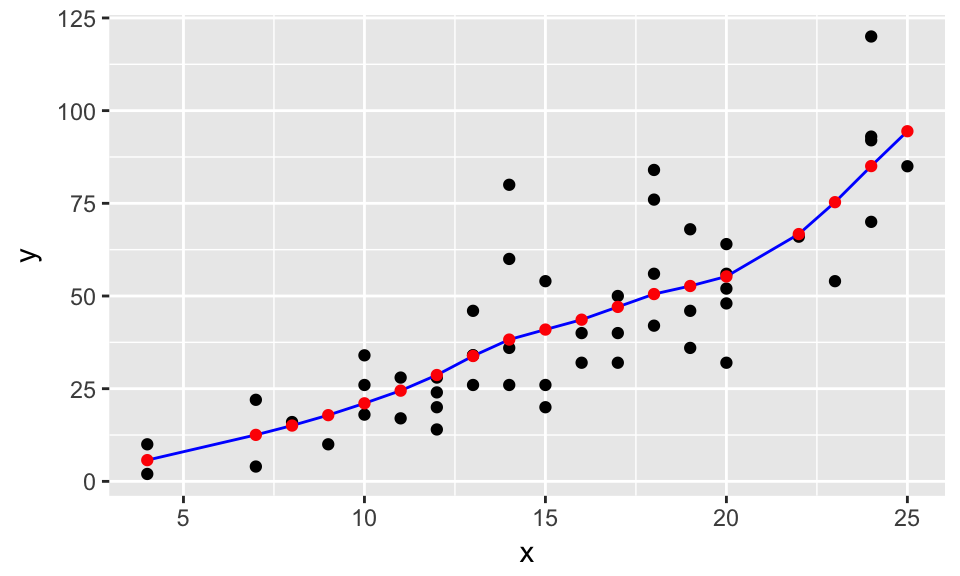
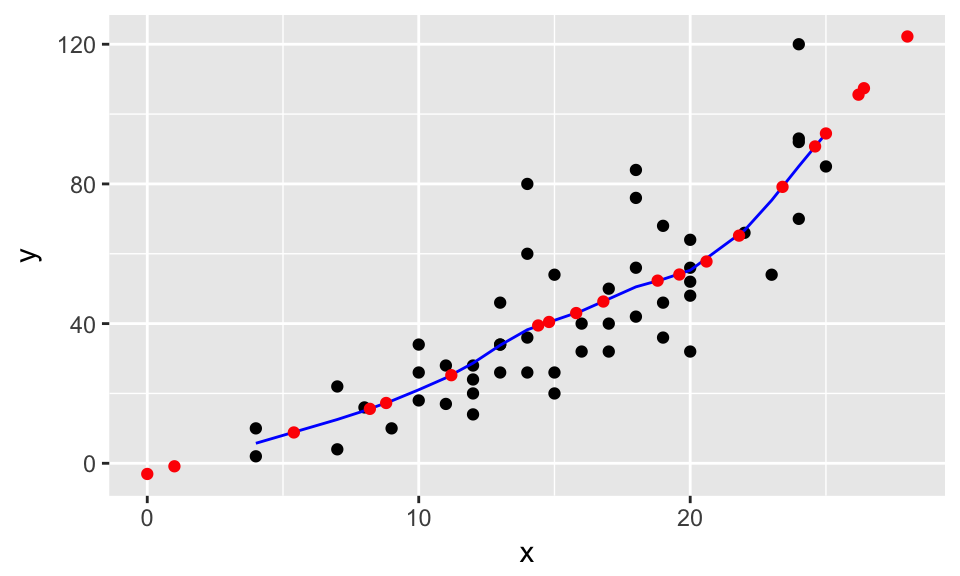
Fixed typo

diff --git a/docs/index.html b/docs/index.html
@@ -605,7 +605,7 @@ plot</code></pre>
 <p><img src="index_files/figure-html/unnamed-chunk-5-1.png" width="480" /></p>
 <pre class="r"><code>new_speeds &lt;- c(24.6, 26.4, 23.4, 16.8, 15.8, 5.4, 14.8, 8.2, 1, 18.8, 25, 28, 19.6, 11.2, 21.8, 26.2, 20.6, 0, 14.4, 8.8)
 # What do you think output is?
-output &lt;- predict(splines_model, new_data = new_speeds) %&gt;% 
+output &lt;- predict(splines_model, new_speeds) %&gt;% 
   tibble::as.tibble()
 head(output)</code></pre>
 <div class="kable-table">
@@ -618,28 +618,28 @@ head(output)</code></pre>
 </thead>
 <tbody>
 <tr class="odd">
-<td align="right">4</td>
-<td align="right">5.731162</td>
+<td align="right">24.6</td>
+<td align="right">90.73420</td>
 </tr>
 <tr class="even">
-<td align="right">7</td>
-<td align="right">12.541225</td>
+<td align="right">26.4</td>
+<td align="right">107.40765</td>
 </tr>
 <tr class="odd">
-<td align="right">8</td>
-<td align="right">15.054925</td>
+<td align="right">23.4</td>
+<td align="right">79.15822</td>
 </tr>
 <tr class="even">
-<td align="right">9</td>
-<td align="right">17.863747</td>
+<td align="right">16.8</td>
+<td align="right">46.32364</td>
 </tr>
 <tr class="odd">
-<td align="right">10</td>
-<td align="right">21.053253</td>
+<td align="right">15.8</td>
+<td align="right">43.02345</td>
 </tr>
 <tr class="even">
-<td align="right">11</td>
-<td align="right">24.469082</td>
+<td align="right">5.4</td>
+<td align="right">8.82841</td>
 </tr>
 </tbody>
 </table>

diff --git a/docs/README.html b/docs/README.html
@@ -303,6 +303,10 @@ div.tocify {
 <div id="stat495" class="section level1">
 <h1>STAT495</h1>
 <p>Homepage source code for 2017-09 Fall Amherst College Advanced Data Analysis <a href="https://rudeboybert.github.io/STAT495/" class="uri">https://rudeboybert.github.io/STAT495/</a>.</p>
+<ul>
+<li>Created using <a href="http://rmarkdown.rstudio.com/rmarkdown_websites.html">R Markdown websites</a></li>
+<li>Deployed via <a href="https://pages.github.com/">GitHub pages</a></li>
+</ul>
 </div>
 
 
